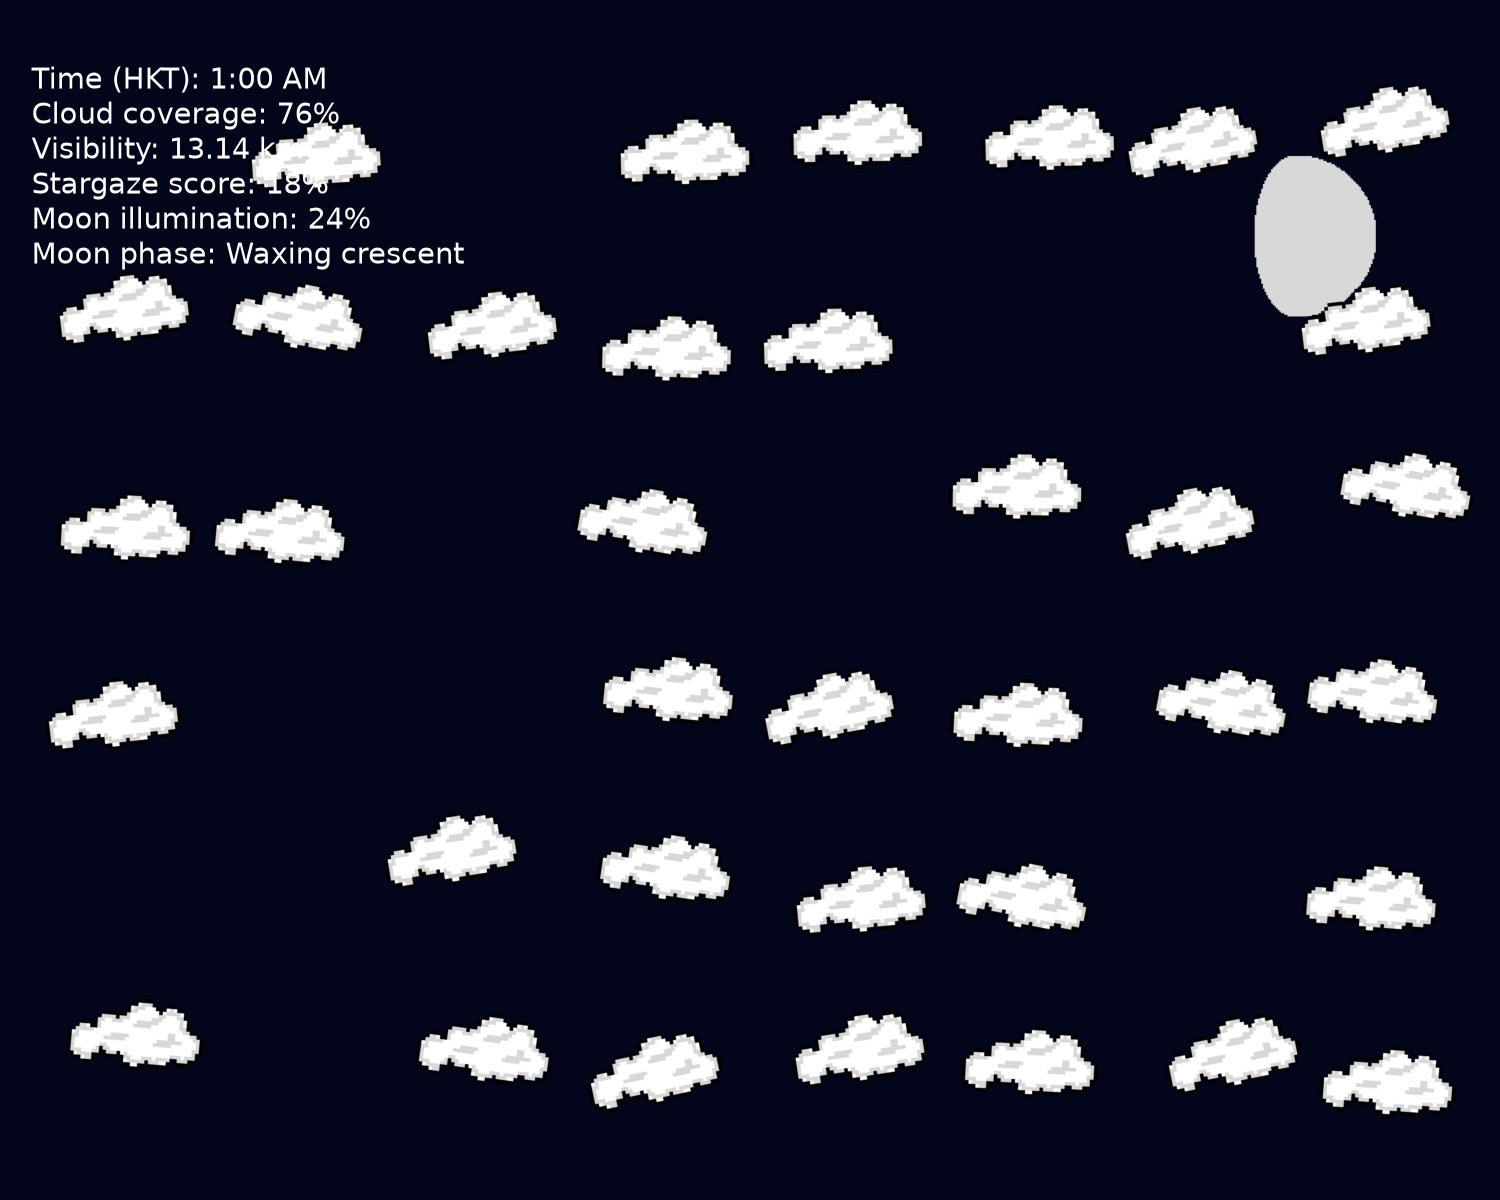
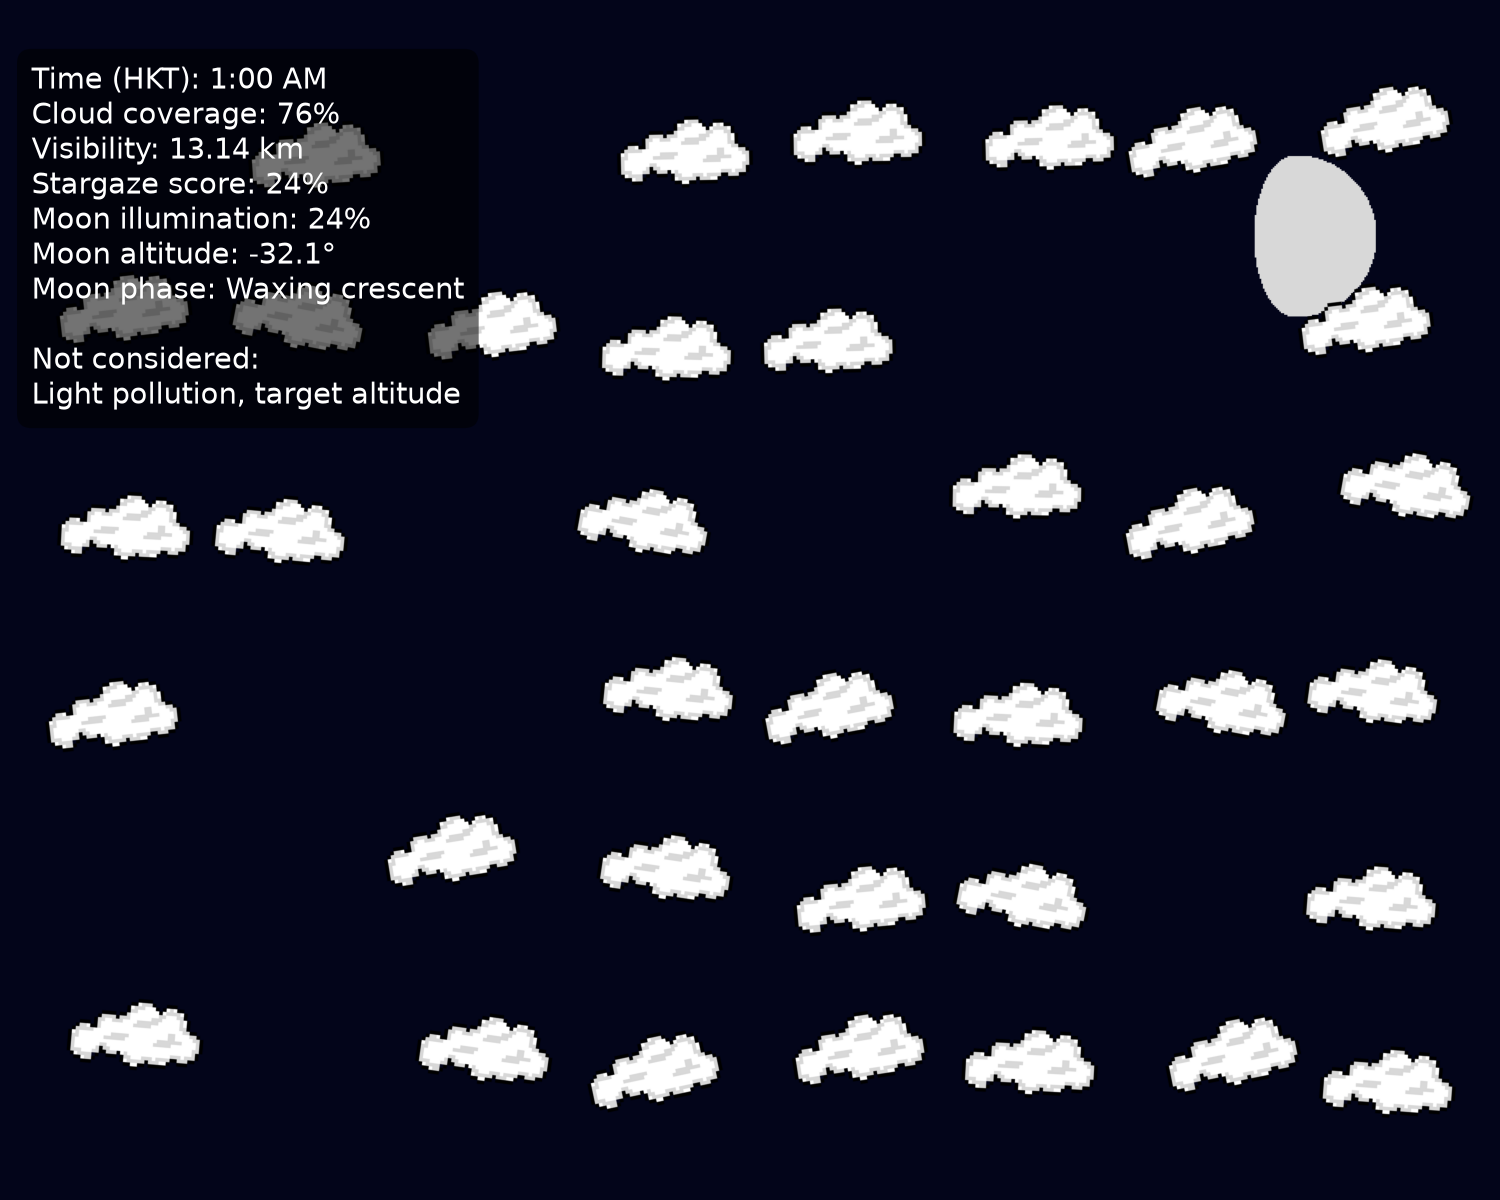
Moon altitude considered for calculation. Parameters not considered printed for clarification

Changed region(s): [[0.0307, 0.185, 0.3373, 0.3392], [0.1533, 0.0925, 0.276, 0.1542]]

diff --git a/fetch.py b/fetch.py
@@ -1,6 +1,6 @@
 # /// script
 # requires-python = ">=3.10"
-# dependencies = ["requests"]
+# dependencies = ["requests", "astral"]
 # ///
 
 """
@@ -19,6 +19,9 @@ import csv
 import math
 from datetime import datetime, timedelta, timezone
 from pathlib import Path
+
+from astral import Observer
+from astral.moon import elevation
 
 # Fetch hourly cloud cover data from Open-Meteo for your coordinates
 # Hong Kong coords (22.3193, 114.1694)
@@ -70,18 +73,32 @@ def fetch(url, path):
         (1 - math.cos(2 * math.pi * phase)) * 50
         for phase in moon_phases
     ]
+    observer = Observer(latitude=lat, longitude=lon)
+    moon_altitudes = [
+        elevation(
+            observer,
+            datetime.fromisoformat(hour).replace(
+                tzinfo=timezone(timedelta(hours=8))
+            ),
+        )
+        for hour in hours
+    ]
     moon_names = [moon_phase_name(phase) for phase in moon_phases]
     stargaze_score = [
         min(visibility_meters / MAX_CLEAR_VISIBILITY_METERS * 100, 100)
         * (1 - cloud / 100)
-        * (1 - moon_illumination / 100)
+        * (
+            1
+            - moon_illumination / 100
+            * max(0, math.sin(math.radians(moon_altitude)))
+        )
         if not (
             datetime.fromisoformat(hour) >= datetime.fromisoformat(sunrise)
             and datetime.fromisoformat(hour) < datetime.fromisoformat(sunset)
         )
         else 0
-        for hour, cloud, visibility_meters, moon_illumination in zip(
-            hours, cloud_coverage, visibility, moon_illuminations
+        for hour, cloud, visibility_meters, moon_illumination, moon_altitude in zip(
+            hours, cloud_coverage, visibility, moon_illuminations, moon_altitudes
         )
     ]
 
@@ -89,12 +106,13 @@ def fetch(url, path):
         writer = csv.writer(handle)
         writer.writerow([
             "time", "cloud_coverage", "visibility", "stargaze_score",
-            "sunrise", "sunset", "moon_phase", "moon_illumination", "moon_name",
+            "sunrise", "sunset", "moon_phase", "moon_illumination",
+            "moon_altitude", "moon_name",
         ])
         writer.writerows(
             zip(hours, cloud_coverage, visibility, stargaze_score,
                 [sunrise] * len(hours), [sunset] * len(hours), moon_phases,
-                moon_illuminations, moon_names)
+                moon_illuminations, moon_altitudes, moon_names)
         )
 
     print(f"saved data/{path.name} ({path.stat().st_size // 1024} KB). Now: git add data")

diff --git a/plot.py b/plot.py
@@ -1,6 +1,6 @@
 # /// script
 # requires-python = ">=3.10"
-# dependencies = ["matplotlib", "numpy"]
+# dependencies = ["matplotlib", "numpy", "astral"]
 # ///
 
 """
@@ -80,6 +80,7 @@ def main():
     stargaze_score = float(first["stargaze_score"])
     moon_phase = float(first["moon_phase"])
     moon_illumination = float(first["moon_illumination"])
+    moon_altitude = float(first["moon_altitude"])
     daylight_progress = (
         (hkt_time - sunrise).total_seconds()
         / (sunset - sunrise).total_seconds()
@@ -120,8 +121,13 @@ def main():
             f"Visibility: {visibility}\n"
             f"Stargaze score: {stargaze_score:.0f}%\n"
             f"Moon illumination: {moon_illumination:.0f}%\n"
-            f"Moon phase: {first['moon_name']}",
-            ha="left", va="top", fontsize=14, color="white")
+            f"Moon altitude: {moon_altitude:.1f}°\n"
+            f"Moon phase: {first['moon_name']}\n\n"
+            "Not considered:\n"
+            "Light pollution, target altitude",
+            ha="left", va="top", fontsize=14, color="white",
+            bbox=dict(facecolor="black", alpha=0.55, edgecolor="none",
+                      boxstyle="round,pad=0.5"))
     ax.set_xlim(0, 8)
     ax.set_ylim(0, 6)
     ax.axis("off")
